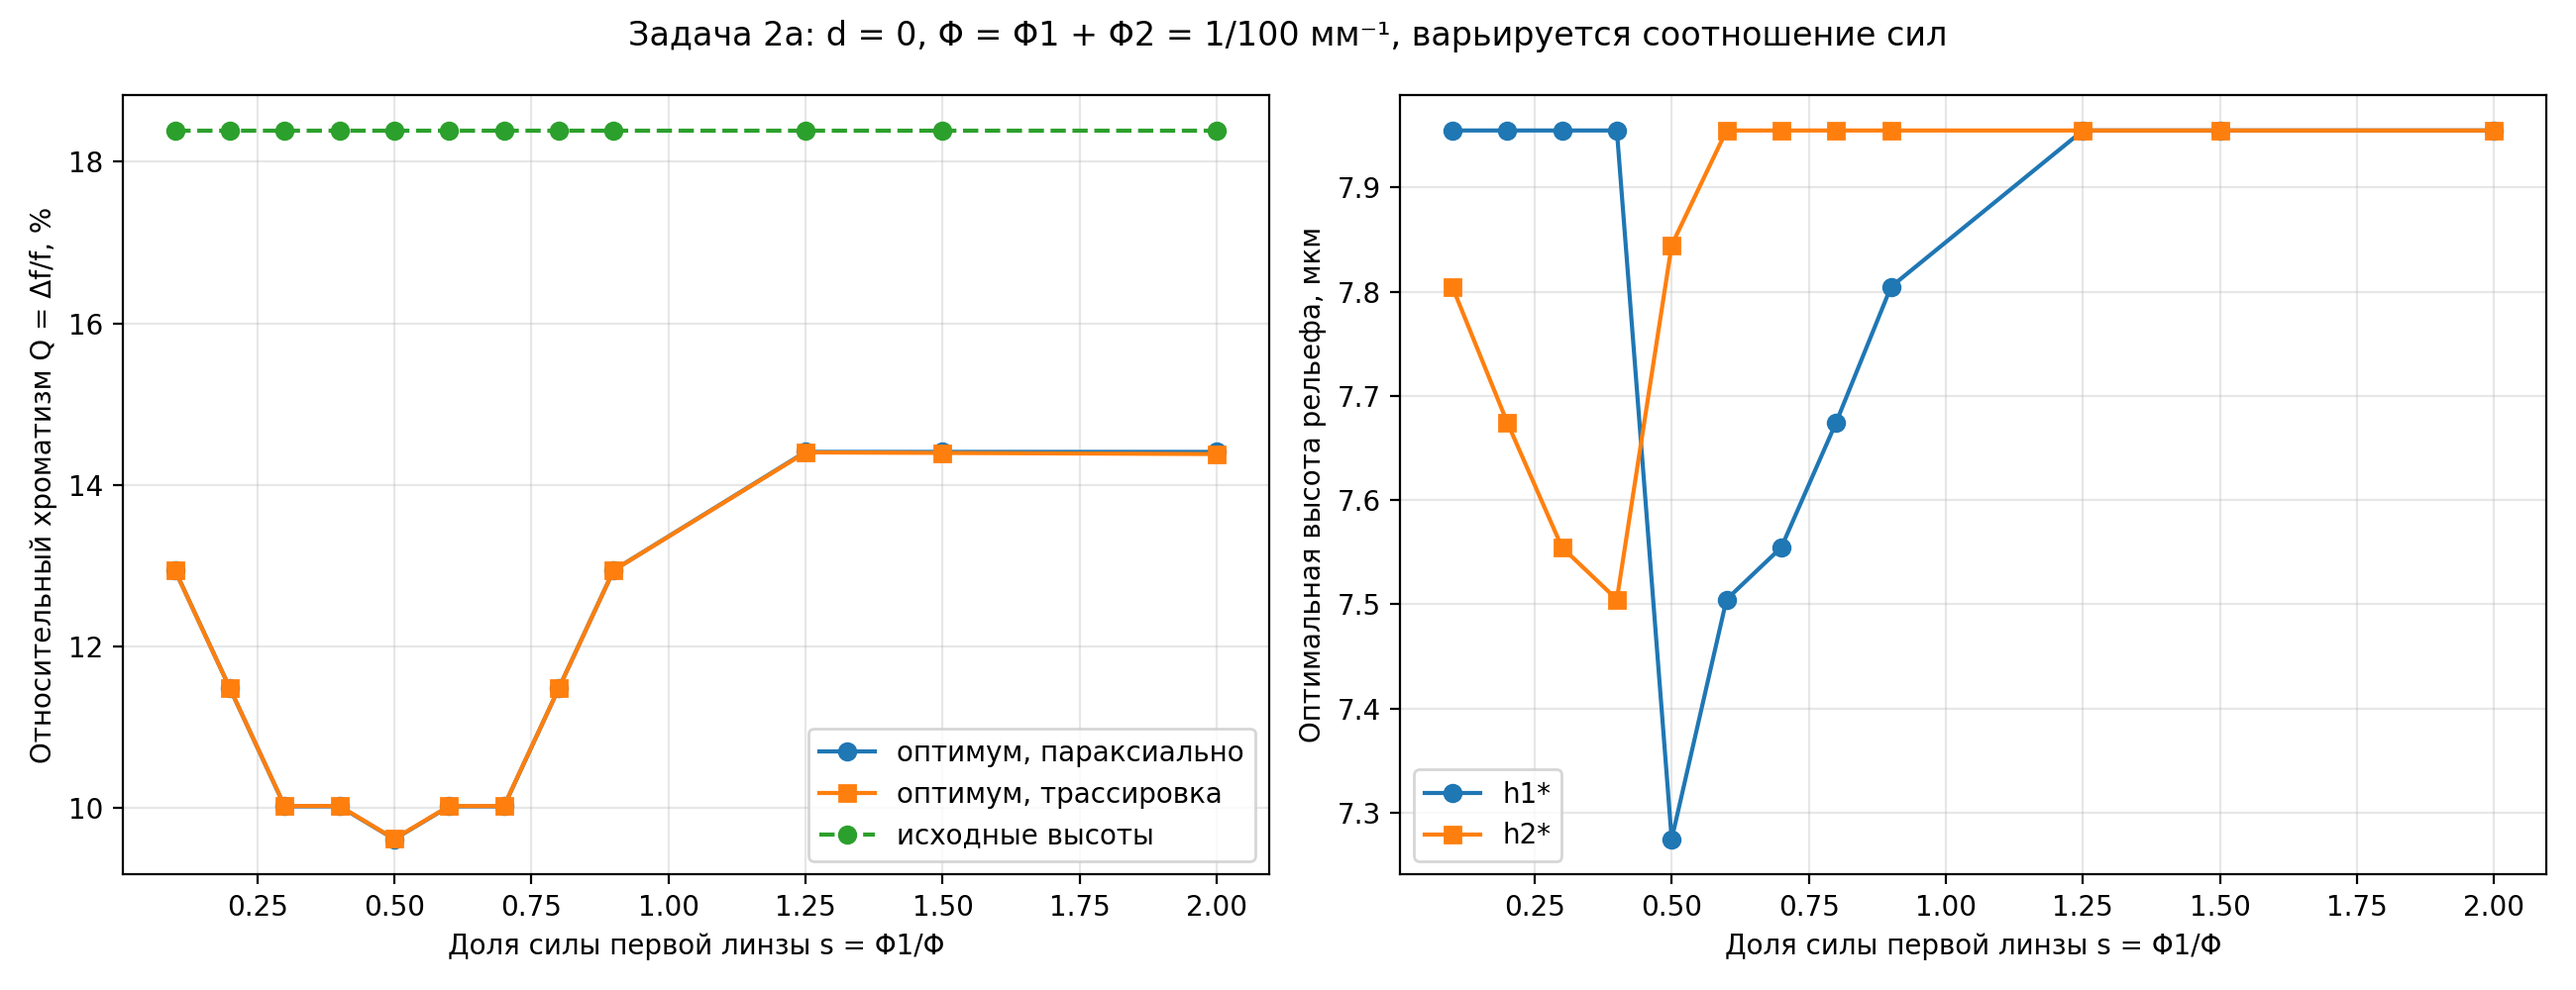
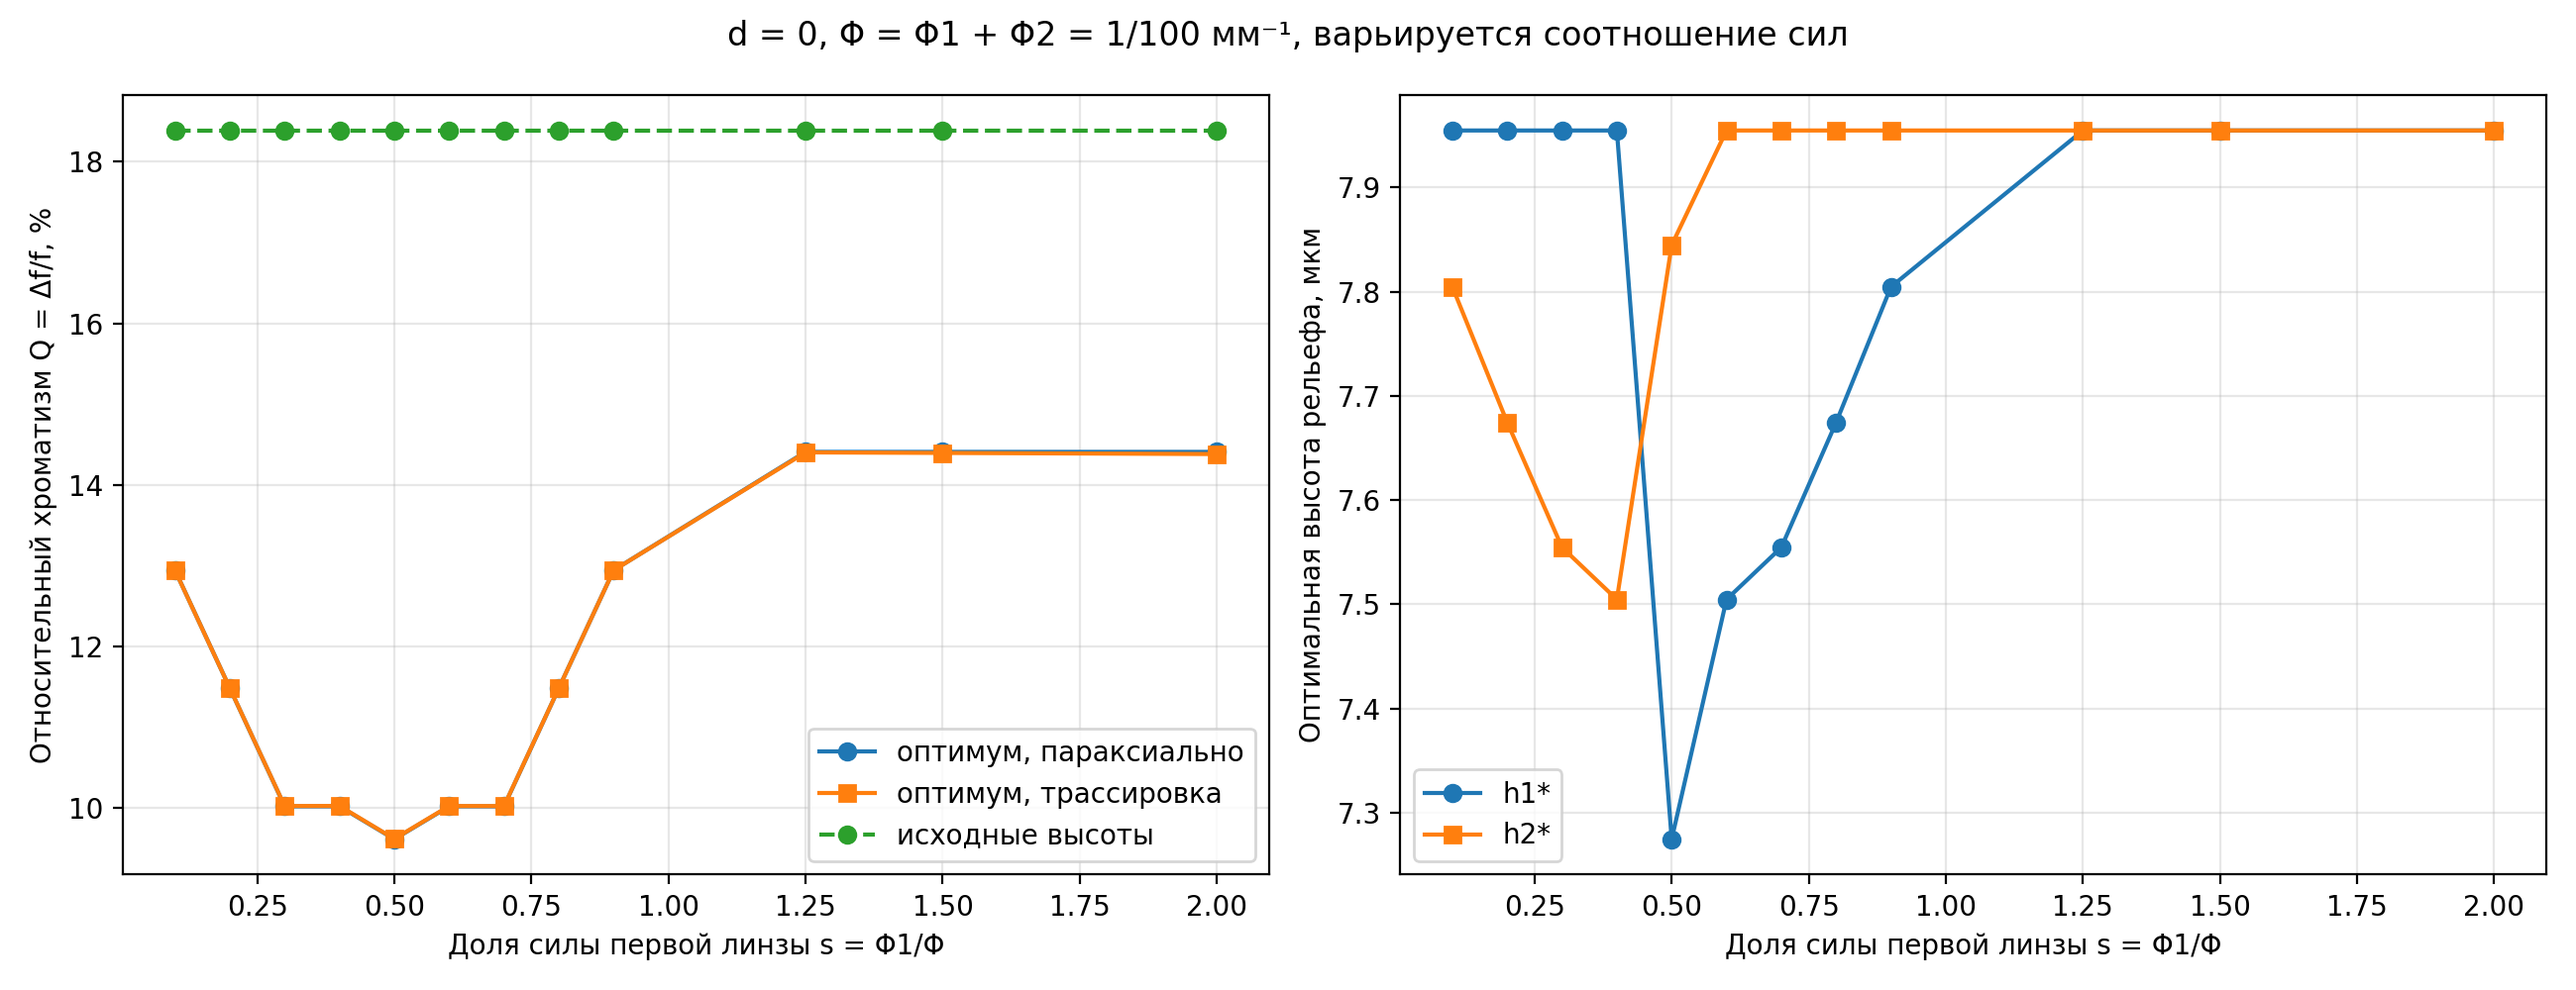
Обновил графики: - убрал подписи title, где написано: Задача 1, Задача 2б, Задача 2а

Changed region(s): [[0.2492, 0.0, 0.7477, 0.062]]

diff --git a/optimizers/study_plots.py b/optimizers/study_plots.py
@@ -129,6 +129,21 @@ def fig_task1_gain(data, path):
     plt.close(fig)
 
 
+def panel_grid(count: int, panel_size=(4.6, 3.4)):
+    """
+    Сетка панелей в две колонки, чтобы рисунок оставался читаемым на странице A4.
+    Возвращает (фигура, панели, число колонок).
+    """
+    ncols = 2 if count > 2 else count
+    nrows = int(np.ceil(count / ncols))
+    fig, axes = plt.subplots(nrows, ncols, sharey=True, squeeze=False,
+                             figsize=(panel_size[0] * ncols, panel_size[1] * nrows))
+    axes = axes.ravel()
+    for ax in axes[count:]:
+        ax.set_visible(False)
+    return fig, axes[:count], ncols
+
+
 def fig_task1_heights(data, path):
     """
     Оптимальные высоты от расстояния: панель на каждое N.
@@ -138,10 +153,10 @@ def fig_task1_heights(data, path):
     именно набор высот, поэтому высоты отсортированы по величине.
     """
     ns = sorted({r['n'] for r in data})
-    fig, axes = plt.subplots(1, len(ns), figsize=(3.6 * len(ns), 4), sharey=True)
+    fig, axes, ncols = panel_grid(len(ns), panel_size=(4.6, 3.8))
     lam0_um, n_glass = 0.55, 1.5185224
     unit = lam0_um / (n_glass - 1)
-    for ax, n in zip(np.atleast_1d(axes), ns):
+    for ax, n in zip(axes, ns):
         rows = sorted((r for r in data if r['n'] == n), key=lambda r: r['d'])
         d = [r['d'] for r in rows]
         # Ранг высоты - порядковый признак: оттенки одного цвета от светлого к тёмному
@@ -156,12 +171,14 @@ def fig_task1_heights(data, path):
         ax.set_xlim(0, 120)
         ax.set_title(f'N = {n}', fontsize=10)
         ax.set_xlabel('d, мм')
-        ax.legend(fontsize=7, loc='upper center', bbox_to_anchor=(0.5, -0.22), ncol=2)
-    np.atleast_1d(axes)[0].set_ylabel('Оптимальная высота рельефа, мкм')
+        ax.legend(fontsize=7, loc='upper center', bbox_to_anchor=(0.5, -0.2), ncol=3)
+    for ax in axes[::ncols]:
+        ax.set_ylabel('Высота рельефа, мкм')
     fig.suptitle('Набор оптимальных высот, отсортированных по величине '
                  '(пунктир — H = 7λ0/(n−1), точки — границы полосы порядка 7)',
                  fontsize=10, x=0.01, ha='left')
     fig.tight_layout()
+    fig.subplots_adjust(hspace=0.75)
     fig.savefig(path)
     plt.close(fig)
 
@@ -195,8 +212,8 @@ def fig_task2a(data, path):
 def fig_task2b(data, path):
     """Постоянная сила системы, разнесение линз: панель на каждое N."""
     ns = sorted({r['n'] for r in data})
-    fig, axes = plt.subplots(1, len(ns), figsize=(3.6 * len(ns), 4), sharey=True)
-    for ax, n in zip(np.atleast_1d(axes), ns):
+    fig, axes, ncols = panel_grid(len(ns))
+    for ax, n in zip(axes, ns):
         for family in ('equal', 'ramp_up', 'ramp_down'):
             rows = sorted((r for r in data if r['n'] == n and r['family'] == family),
                           key=lambda r: r['d'])
@@ -206,8 +223,9 @@ def fig_task2b(data, path):
                     color=FAMILY_COLOR[family], label=FAMILY_LABEL[family])
         ax.set_title(f'N = {n}', fontsize=10)
         ax.set_xlabel('d, мм')
-    np.atleast_1d(axes)[0].set_ylabel('Q = Δf / f, %')
-    np.atleast_1d(axes)[-1].legend(fontsize=8)
+    for ax in axes[::ncols]:
+        ax.set_ylabel('Q = Δf / f, %')
+    axes[-1].legend(fontsize=8)
     fig.suptitle('Сила системы постоянна (1/100 мм⁻¹), линзы разнесены на d',
                  fontsize=10, x=0.01, ha='left')
     fig.tight_layout()
@@ -221,8 +239,8 @@ def fig_best_by_n(data, path):
     fig, ax = plt.subplots(figsize=(7, 4.2))
     # Последний элемент - сдвиг подписи по вертикали: у задачи 2б подписи под точками
     for label, rows, color, marker, dy in (
-            ('одинаковые линзы, лучшее d (задача 1)', data['task1'], '#2a78d6', 'o', 7),
-            ('сила постоянна, лучшее d и распределение (задача 2б)', data['task2b'],
+            ('одинаковые линзы, лучшее d', data['task1'], '#2a78d6', 'o', 7),
+            ('сила постоянна, лучшее d и распределение', data['task2b'],
              '#eb6834', 's', -14),
             ('d = 0, исходные высоты', [dict(r, q=r['q_design']) for r in data['task1']
                                         if r['d'] == 0], INK_MUTED, 'x', 7)):

diff --git a/optimizers/multi_lens_study.py b/optimizers/multi_lens_study.py
@@ -390,7 +390,7 @@ def plot_task_1(rows: list[CaseResult], path: Path) -> None:
     ax.set_xlim(left=0)
     ax.set_xlabel('Расстояние между соседними линзами d, мм')
     ax.set_ylabel('Относительный хроматизм Q = Δf/f, %')
-    ax.set_title('Задача 1: одинаковые линзы f0 = 100·N мм (x — трассировка)')
+    ax.set_title('Одинаковые линзы f0 = 100·N мм (x — трассировка)')
     ax.grid(True, alpha=0.3)
     ax.legend(fontsize=8, ncol=2)
     fig.tight_layout()
@@ -399,19 +399,32 @@ def plot_task_1(rows: list[CaseResult], path: Path) -> None:
 
 
 def plot_task_2b(rows: list[CaseResult], path: Path) -> None:
+    labels = {'equal': 'поровну', 'ramp_up': 'по возрастанию', 'ramp_down': 'по убыванию'}
     ns = sorted({r.n_lens for r in rows})
-    fig, axes = plt.subplots(1, len(ns), figsize=(5 * len(ns), 4.5), sharey=True)
-    for ax, n in zip(np.atleast_1d(axes), ns):
+    # Две колонки, чтобы рисунок оставался читаемым на странице A4
+    ncols = 2
+    nrows = int(np.ceil((len(ns) + 1) / ncols))
+    fig, axes = plt.subplots(nrows, ncols, figsize=(9, 3.6 * nrows), sharey=True,
+                             squeeze=False)
+    axes = axes.ravel()
+    for ax, n in zip(axes, ns):
         for family in FAMILIES_2B:
             part = [r for r in rows if r.n_lens == n and r.family == family]
             ax.plot([r.d_mm for r in part], [r.q_opt * 100 for r in part], 'o-',
-                    label=family)
+                    label=labels[family])
         ax.set_title(f'N = {n}')
         ax.set_xlabel('d, мм')
         ax.grid(True, alpha=0.3)
-    np.atleast_1d(axes)[0].set_ylabel('Q = Δf/f, %')
-    np.atleast_1d(axes)[0].legend()
-    fig.suptitle('Задача 2б: сила системы постоянна (1/100 мм⁻¹), разные распределения сил')
+    for ax in axes[::ncols]:
+        ax.set_ylabel('Q = Δf/f, %')
+    # Свободная панель - под легенду
+    legend_ax = axes[len(ns)]
+    legend_ax.axis('off')
+    legend_ax.legend(*axes[0].get_legend_handles_labels(), loc='center',
+                     title='Распределение сил')
+    for ax in axes[len(ns) + 1:]:
+        ax.set_visible(False)
+    fig.suptitle('Сила системы постоянна (1/100 мм⁻¹), разные распределения сил')
     fig.tight_layout()
     fig.savefig(path, dpi=200)
     plt.close(fig)

diff --git a/optimizers/two_lens_study.py b/optimizers/two_lens_study.py
@@ -236,7 +236,7 @@ def plot_task_1(rows: list[CaseResult], path: Path) -> None:
     ax2.set_xlim(left=0)
     ax2.grid(True, alpha=0.3)
     ax2.legend()
-    fig.suptitle('Задача 1: две линзы f0 = 200 мм, m = 7, варьируется d')
+    fig.suptitle('Две линзы f0 = 200 мм, m = 7, варьируется d')
     fig.tight_layout()
     fig.savefig(path, dpi=200)
     plt.close(fig)
@@ -260,7 +260,7 @@ def plot_task_2a(rows: list[CaseResult], path: Path) -> None:
     ax2.set_ylabel('Оптимальная высота рельефа, мкм')
     ax2.grid(True, alpha=0.3)
     ax2.legend()
-    fig.suptitle('Задача 2а: d = 0, Φ = Φ1 + Φ2 = 1/100 мм⁻¹, варьируется соотношение сил')
+    fig.suptitle('d = 0, Φ = Φ1 + Φ2 = 1/100 мм⁻¹, варьируется соотношение сил')
     fig.tight_layout()
     fig.savefig(path, dpi=200)
     plt.close(fig)
@@ -278,7 +278,7 @@ def plot_task_2b(rows: list[CaseResult], path: Path) -> None:
     ax.set_ylabel('Относительный хроматизм Q = Δf/f, %')
     ax.grid(True, alpha=0.3)
     ax.legend(fontsize=8, ncol=2)
-    ax.set_title('Задача 2б: Φ1 + Φ2 - dΦ1Φ2 = 1/100 мм⁻¹')
+    ax.set_title('Постоянная сила системы: Φ1 + Φ2 - dΦ1Φ2 = 1/100 мм⁻¹')
     fig.tight_layout()
     fig.savefig(path, dpi=200)
     plt.close(fig)
